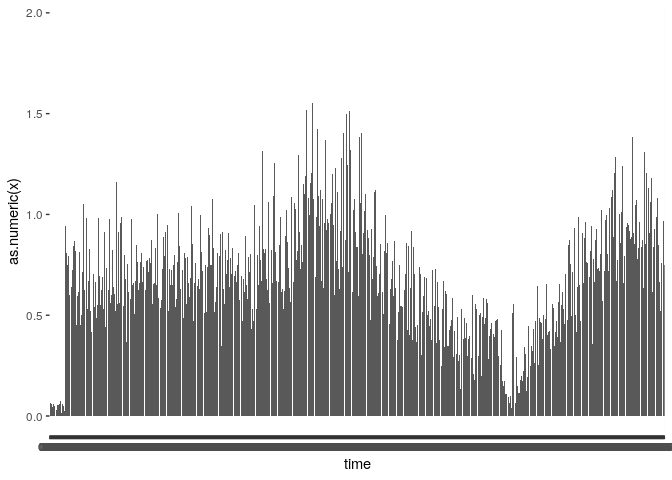
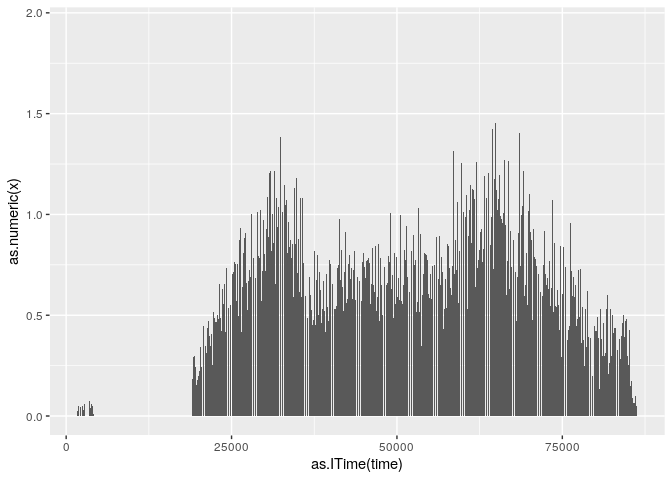
update vignette for two pollutants

Changed region(s): [[0.0625, 0.25, 1.0, 0.875], [0.0625, 0.9062, 1.0, 1.0]]

diff --git a/doc/gtfs2emis-vignette.md b/doc/gtfs2emis-vignette.md
@@ -19,10 +19,11 @@ poa <- gtfs2gps::gtfs2gps(poa)
 
 Input data dimensions can be simplified by using line segments
 (`linestring` geometry type) instead of `points`, since the emissions
-varies according to distance and speed.
+varies according to distance and
+speed.
 
 ``` r
-poa_gpslines <- gtfs2gps::gps_as_sflinestring(poa)
+poa_gpslines <- gtfs2gps::gps_as_sflinestring(poa) %>% data.table::as.data.table()
 object.size(poa) %>% format("Mb")
 #> [1] "20.5 Mb"
 dim(poa)
@@ -30,7 +31,7 @@ dim(poa)
 object.size(poa_gpslines) %>% format("Mb")
 #> [1] "18.7 Mb"
 dim(poa_gpslines)
-#> [1] 22560    12
+#> [1] 22560    13
 ```
 
 ### 2\) Fleet data
@@ -90,20 +91,21 @@ Pollutants (g/km): CO, NOx, HC, PM, CH4, NMHC, CO2, SO2, Pb, FC ,NO,NO2.
 
 euro_stage = c("II","IV","IV","V","V","V","V","V","V") # euro equivalent for brazilian fleet by years  
 EF_europe <- ef_europe(vel = units::set_units(poa_gpslines$speed,'km/h'),
-                          veh_type = "Urban Buses Standard 15 - 18 t",
-                          tech = "SCR",
-                          euro = euro_stage,
-                          pol = "CO",aggregate = TRUE,
-                          veh = veh_distri)
+                       veh_type = "Urban Buses Standard 15 - 18 t",
+                       tech = "SCR",
+                       euro = euro_stage,
+                       pol = c("CO","PM"),aggregate = TRUE,
+                       veh = veh_distri)
+#> no technology associated with Euro II
 #> no technology associated with Euro II
 head(EF_europe)
-#>             CO_avg
-#> 1: 1.860114 [g/km]
-#> 2: 1.860114 [g/km]
-#> 3: 1.860114 [g/km]
-#> 4: 1.860114 [g/km]
-#> 5: 1.860114 [g/km]
-#> 6: 1.860114 [g/km]
+#>             CO_avg            PM_avg
+#> 1: 1.860114 [g/km] 0.05175015 [g/km]
+#> 2: 1.860114 [g/km] 0.05175015 [g/km]
+#> 3: 1.860114 [g/km] 0.05175015 [g/km]
+#> 4: 1.860114 [g/km] 0.05175015 [g/km]
+#> 5: 1.860114 [g/km] 0.05175015 [g/km]
+#> 6: 1.860114 [g/km] 0.05175015 [g/km]
 ```
 
 #### United States emission factors for buses categories
@@ -113,18 +115,14 @@ ROG (reactive organic gases), THC, CH4, PM10, PM2.5, SOx, CO2, N2O and
 CH4.
 
 ``` r
-EF_emfac <- gtfs2emis::ef_emfac(pol = "CO",calendar_year = "2019",
-                                 model_year = colnames(total_fleet),
-                                 speed = units::set_units(poa_gpslines$speed,'km/h'),
-                                 veh = veh_distri,aggregate = TRUE,fuel = "Diesel")
-head(EF_emfac)
-#>               CO_avg
-#> 1: 0.07509172 [g/km]
-#> 2: 0.07509172 [g/km]
-#> 3: 0.07509172 [g/km]
-#> 4: 0.07509172 [g/km]
-#> 5: 0.07509172 [g/km]
-#> 6: 0.07509172 [g/km]
+EF_emfac <- gtfs2emis::ef_emfac(pol = c("CO","PM10"),calendar_year = "2019",
+                                model_year = colnames(total_fleet),
+                                speed = units::set_units(poa_gpslines$speed,'km/h'),
+                                veh = veh_distri,aggregate = TRUE,fuel = "Diesel")
+head(EF_emfac,2)
+#>               CO_avg           PM10_avg
+#> 1: 0.07509172 [g/km] 0.003048018 [g/km]
+#> 2: 0.07509172 [g/km] 0.003048018 [g/km]
 ```
 
 #### Brazil emission factors for buses
@@ -137,27 +135,45 @@ Obtained from `vein` package.
 ``` r
 years <- c("2005","2010","2011","2012","2014","2015","2017","2018")
 
-EF_cetesb <- sapply(seq_along(years),function(i){# i = colnames(total_fleet)[1]
-  vein::ef_cetesb(p = "CO",veh = "BUS_URBAN_D",year = years[i],agemax = 1) * veh_distri[i]
-}) %>% units::set_units("g/km") %>% sum()
-EF_cetesb
+EF_brazil <- lapply(c("CO","PM"),function(j){
+  temp_ef_br <- sapply(seq_along(years),function(i){# i = colnames(total_fleet)[1]
+    vein::ef_cetesb(p = j,veh = "BUS_URBAN_D",year = years[i],agemax = 1) * veh_distri[i]
+  }) %>% units::set_units("g/km") %>% sum()
+  return(temp_ef_br)
+})
+names(EF_brazil) <- paste0(c("CO","PM"),"_avg")
+EF_brazil
+#> $CO_avg
 #> 0.9235538 [g/km]
+#> 
+#> $PM_avg
+#> 0.06822249 [g/km]
 ```
 
 ### 4\) Emission
 
 Emissions are estimated as a product between distance (units `km`) with
-emission factor (units
-`g/km`).
+emission factor (units `g/km`).
 
 #### Using different emission factors
 
 ``` r
-data.table::setDT(poa_gpslines)[,emi_usa := units::set_units(poa_gpslines$dist,'km') * EF_emfac$CO_avg ]
+# USA
+emi_usa <- gtfs2emis::emis(veh = 1,dist = units::set_units(poa_gpslines$dist,'km'),ef = EF_emfac)
+unique_names <- paste0("USA_",names(emi_usa))
+poa_gpslines[,(unique_names) := emi_usa]
 
-poa_gpslines[,emi_europe :=  units::set_units(poa_gpslines$dist,'km') * EF_europe$CO_avg]
-# not speed-dependent
-poa_gpslines[,emi_cetesb := units::set_units(poa_gpslines$dist,'km') * EF_cetesb]
+# EUROPE
+emi_europe <- gtfs2emis::emis(veh = 1,dist = units::set_units(poa_gpslines$dist,'km'),ef = EF_europe)
+unique_names <- paste0("Europe_",names(emi_europe))
+poa_gpslines[,(unique_names) := emi_europe]
+
+# BRAZIL (not speed dependent emission factor)
+unique_names <- paste0("Brazil_",names(EF_brazil))
+emi_brazil <- gtfs2emis::emis(veh = 1,dist = units::set_units(poa_gpslines$dist,'km'),ef = EF_brazil)
+#> Constant emission factor along the route
+#> Constant emission factor along the route
+poa_gpslines[,(unique_names) := emi_brazil]
 ```
 
 ### 5\) Post-processing emissions
@@ -165,7 +181,7 @@ poa_gpslines[,emi_cetesb := units::set_units(poa_gpslines$dist,'km') * EF_cetesb
 #### Hour time stamp
 
 ``` r
-hour_post <- gtfs2emis::emis_post(emi = poa_gpslines$emi_usa,
+hour_post <- gtfs2emis::emis_post(emi = poa_gpslines$USA_CO_avg,
                                   time = "hour",
                                   time_dt = poa_gpslines$departure_time)
 library(ggplot2)
@@ -178,11 +194,12 @@ ggplot() +
 #### Hour-minute time stamp
 
 ``` r
-hour_post <- gtfs2emis::emis_post(emi = poa_gpslines$emi_usa,
-                     time = "hour-minute",time_dt = poa_gpslines$departure_time)
-library(ggplot2)
+hour_post <- gtfs2emis::emis_post(emi = poa_gpslines$USA_CO_avg,
+                                  time = "hour-minute",
+                                  time_dt = poa_gpslines$departure_time)
 ggplot() + 
-  geom_bar(data = hour_post,aes(x = time,y = as.numeric(x)),stat = "identity")
+  geom_bar(data = hour_post,aes(x = as.ITime(time),y = as.numeric(x)),stat = "identity")
+#> Don't know how to automatically pick scale for object of type ITime. Defaulting to continuous.
 ```
 
 ![](gtfs2emis-vignette_files/figure-gfm/unnamed-chunk-12-1.png)<!-- -->
@@ -205,13 +222,13 @@ Intersection operation
 
 ``` r
 poa_sf <- sf::st_as_sf(poa_gpslines)
-pol_gps <- vein::emis_grid(spobj = poa_sf["emi_usa"],g = grid_gps)
+pol_gps <- vein::emis_grid(spobj = poa_sf["USA_CO_avg"],g = grid_gps)
 #> Your units are:
 #> g
 #> Sum of street emissions 784.92
 #> Sum of gridded emissions 784.92
-pol_gps <- pol_gps[as.numeric(pol_gps$emi_usa) > 0,]
-plot(pol_gps["emi_usa"])
+pol_gps <- pol_gps[as.numeric(pol_gps$USA_CO_avg) > 0,]
+plot(pol_gps["USA_CO_avg"])
 ```
 
 ![](gtfs2emis-vignette_files/figure-gfm/unnamed-chunk-14-1.png)<!-- -->
